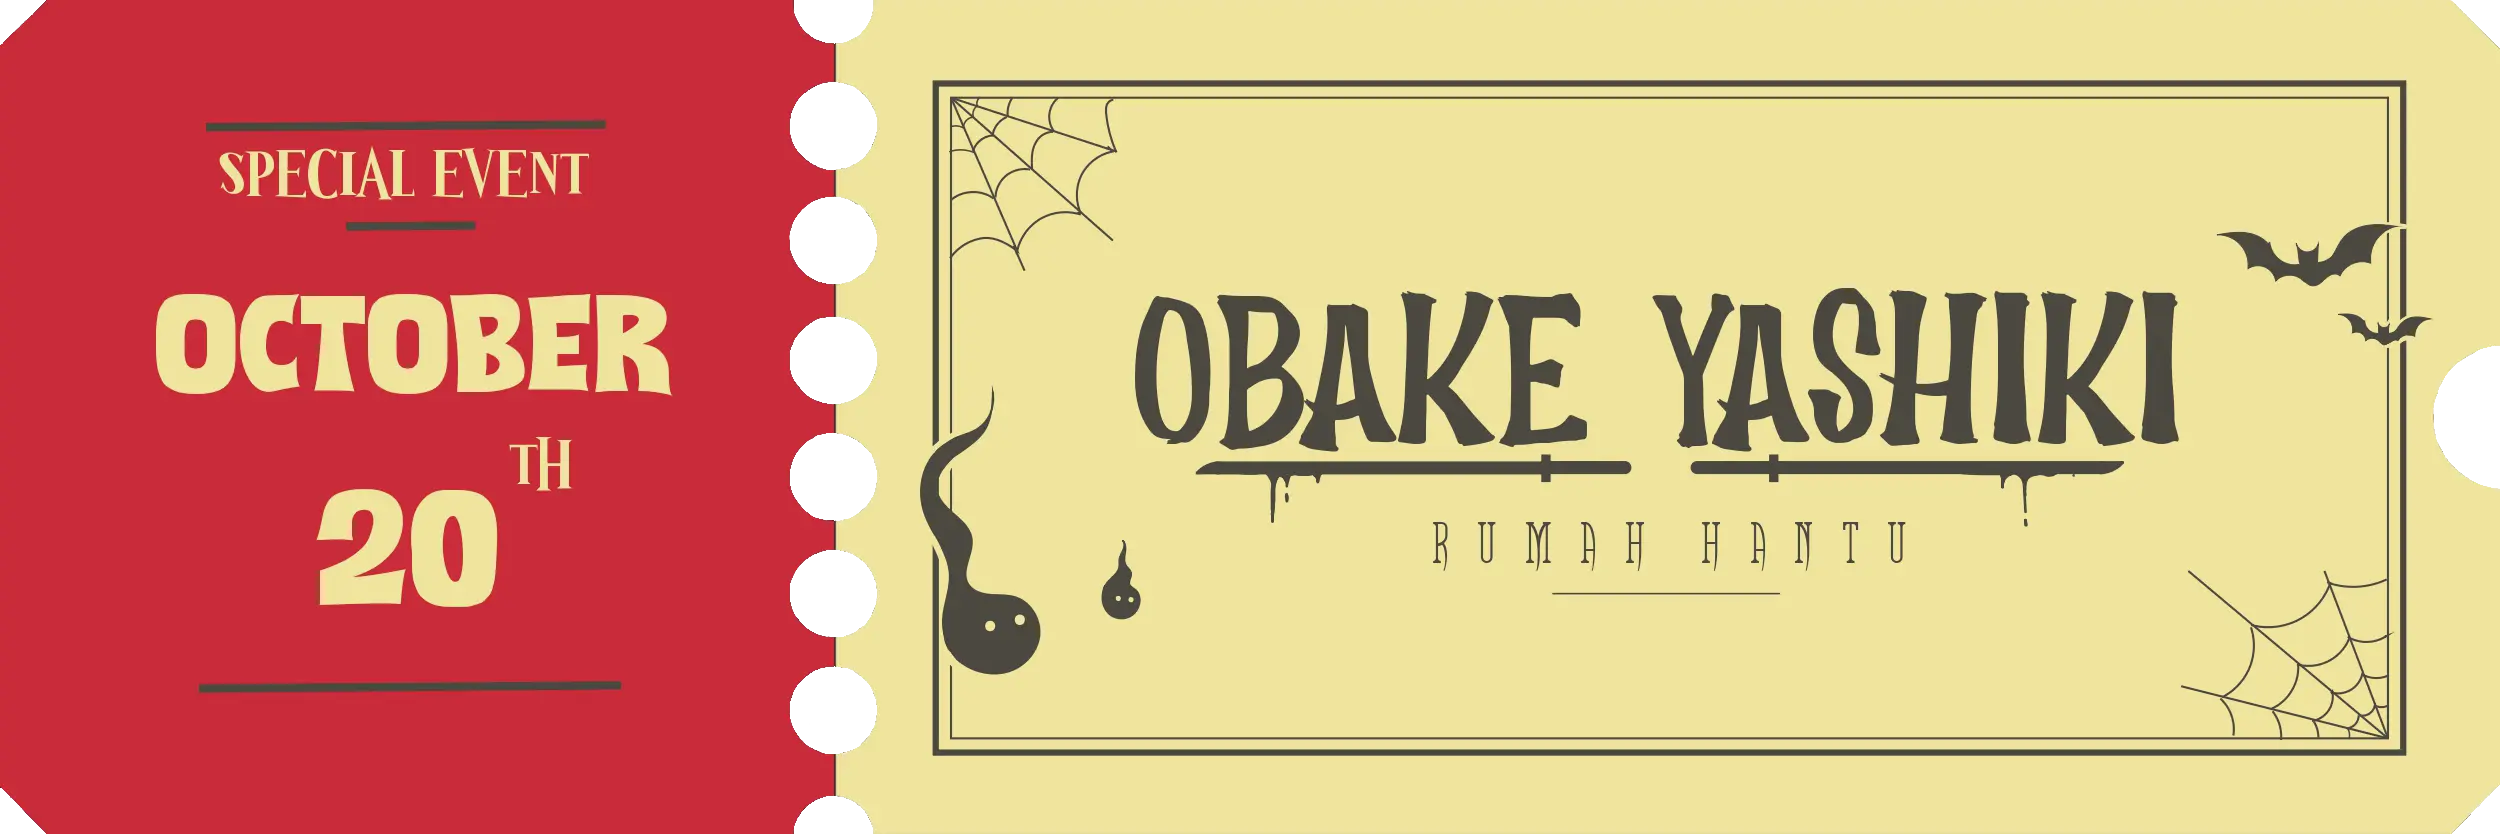
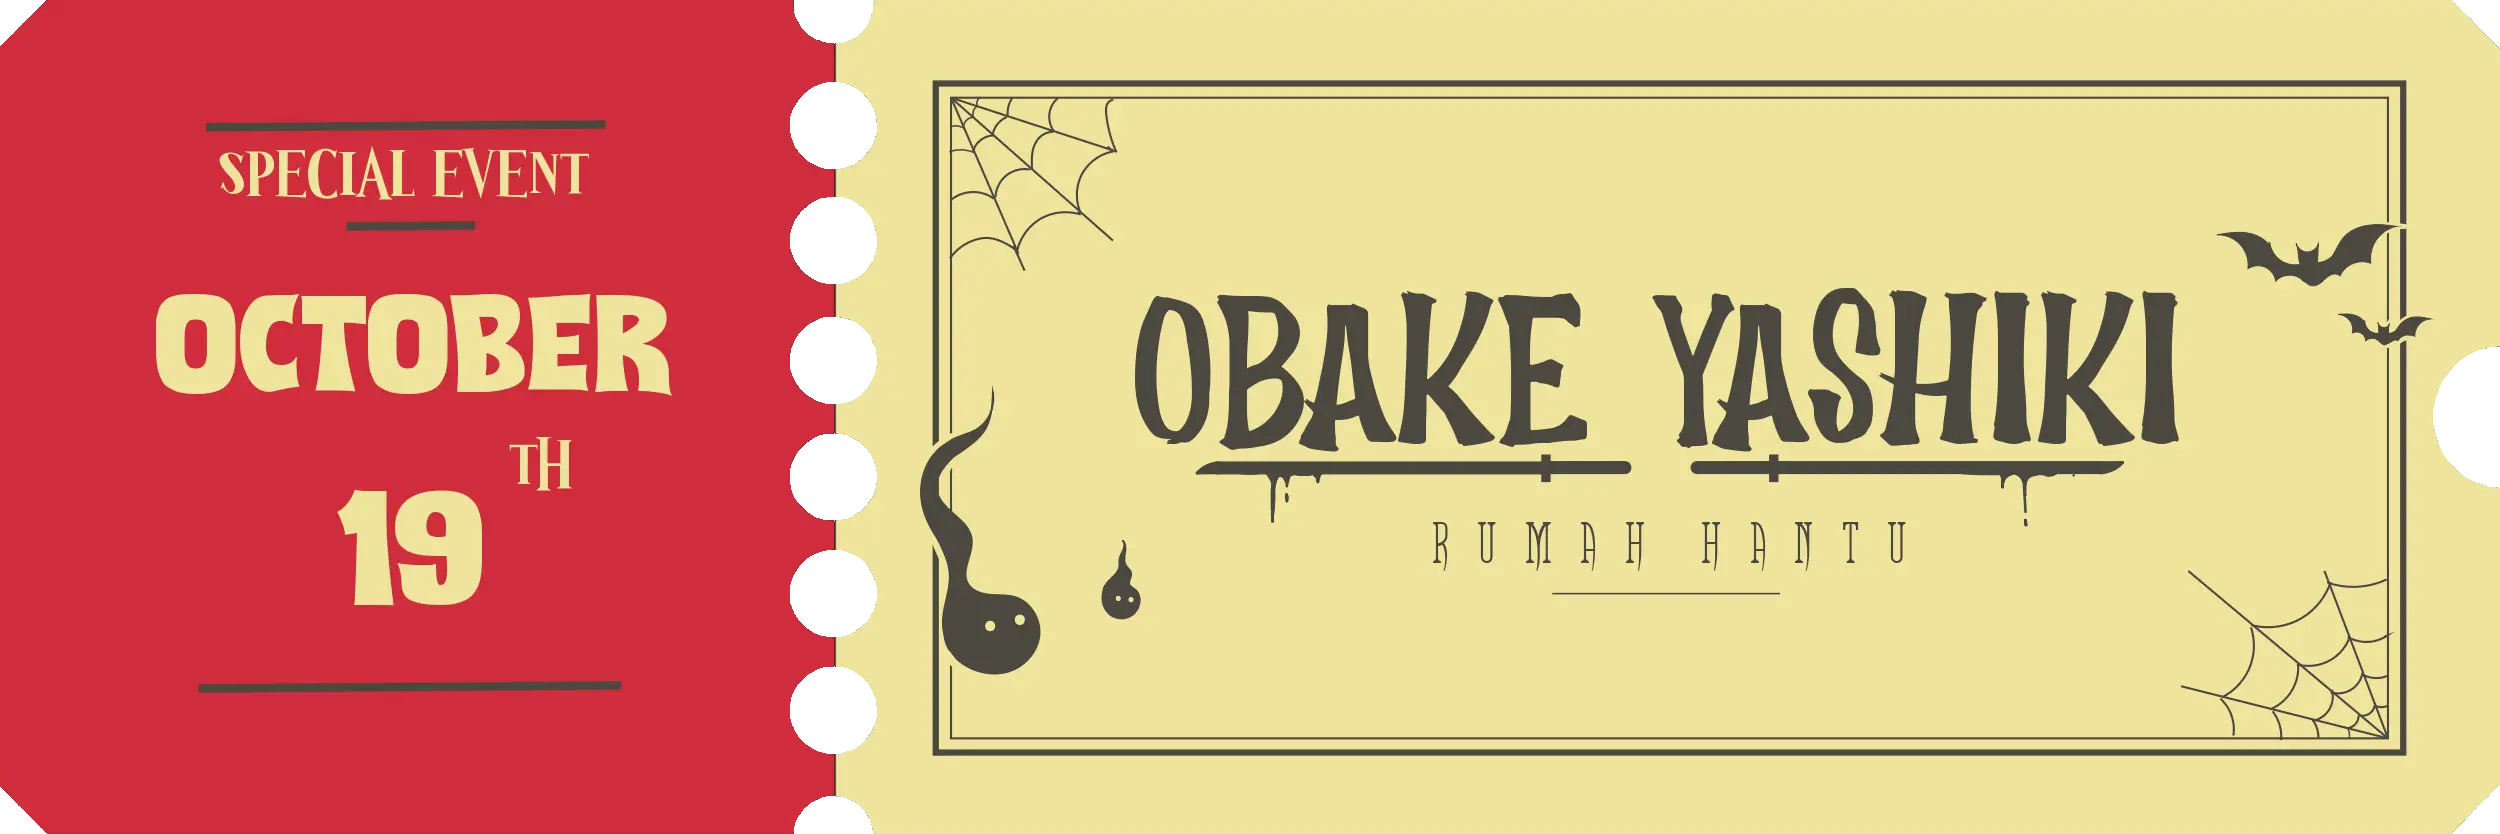
Seed + Validation Update✨

Changed region(s): [[0.1248, 0.5923, 0.2184, 0.7482]]

diff --git a/resources/js/pages/home/partials/Activities.jsx b/resources/js/pages/home/partials/Activities.jsx
@@ -270,8 +270,11 @@ export default function Activities({ activities, competitions }) {
                                             "@tablet": { fontSize: "2vw" }
                                         }).toString()}>
                                             {activity.name}
+                                            {isActivity && (
+                                                " (" + activity.sale.name+")"
+                                            )}
                                         </Text>
-                                        <ActivityTag tag={activity.type}>
+                                        <ActivityTag tag={activity.type} css={{ alignItems: "center" }}>
                                             {isActivity ? (
                                                 <TagBlue width={12.5} />
                                             ) : (
@@ -315,6 +318,12 @@ export default function Activities({ activities, competitions }) {
                                     <DisabledBtn>
                                         <Text css={{ color: "$secondary" }}>
                                             Registration Closed
+                                        </Text>
+                                    </DisabledBtn>
+                                ) : (isActivity && activity.is_coming_up) || (!isActivity && activity.is_opened) ? (
+                                    <DisabledBtn css={{ borderColor: "$dark" }}>
+                                        <Text css={{ color: "$dark" }}>
+                                            Belum dibuka
                                         </Text>
                                     </DisabledBtn>
                                 ) : (!isActivity && activity.price_tag == "ots") ? (

diff --git a/resources/js/pages/detail/partials/PriceSection.jsx b/resources/js/pages/detail/partials/PriceSection.jsx
@@ -13,6 +13,7 @@ export default function PriceSection({
     isFull,
     isTicketsAvailable,
     isGoingOn,
+    isComingUp,
     guideBook,
     orderUrl,
 }) {
@@ -31,7 +32,7 @@ export default function PriceSection({
                 Rp {price.toLocaleString("id-ID")} {priceTag && `(${priceTag})`}
             </Text>
             <div className={css({ display: "flex", gap: "1.25rem", flexDirection: "column", "@desktop": { flexDirection: "row" } }).toString()}>
-                {(isActivity && !isTicketsAvailable) || (isActivity && !isGoingOn) ? (
+                {(isActivity && !isTicketsAvailable) || (isActivity && !isGoingOn) || (isComingUp) ? (
                     <div
                         className={css({
                             display: "flex",
@@ -51,7 +52,7 @@ export default function PriceSection({
                             },
                         }).toString()}
                     >
-                        <Text css={{ color: "$secondary", overflow: "hidden" }}>{isGoingOn ? "Sold Out" : "Event Ended"}</Text>
+                        <Text css={{ color: "$secondary", overflow: "hidden" }}>{(isComingUp) ? "Belum dibuka" :((isGoingOn) ? "Sold Out" : "Event Ended")}</Text>
                     </div>
                 ) : (!isActivity && isClosed) || (!isActivity && isFull) ? (
                     <div

diff --git a/resources/js/pages/detail/index.jsx b/resources/js/pages/detail/index.jsx
@@ -74,6 +74,9 @@ function DetailPage({ data, links: { orderUrl }, meta }) {
                             isGoingOn={
                                 isActivity && data.is_going_on
                             }
+                            isComingUp={
+                                isActivity ? data.is_coming_up : data.is_opened
+                            }
                             guideBook={isActivity ? null : data.guide_book_url}
                             orderUrl={orderUrl}
                         />

diff --git a/database/seeders/Jfest8Seeder.php b/database/seeders/Jfest8Seeder.php
@@ -52,8 +52,8 @@ class Jfest8Seeder extends Seeder
                 'description' => 'Jfest is a japanese culture special event held by JCOS (Japanese Community of STIKOM Bali)',
                 'image_url' => null,
                 'date' => Carbon::create(2024, 10, 8),
-                'purchase_opened_at' => Carbon::create(2024, 9, 4),
-                'purchase_closed_at' => Carbon::create(2024, 10, 8)
+                'purchase_opened_at' => Carbon::create(2024, 8, 4),
+                'purchase_closed_at' => Carbon::create(2024, 10, 19)
             ])
         ])->each(function ($activity) {
             $activity->save();
@@ -76,8 +76,8 @@ class Jfest8Seeder extends Seeder
                 'use_multi_participant' => true,
                 'min_participants' => 1,
                 'max_participants' => 3,
-                'registration_opened_at' => Carbon::create(2024, 9, 4),
-                'registration_closed_at' => Carbon::create(2024, 10, 18),
+                'registration_opened_at' => Carbon::create(2024, 8, 4),
+                'registration_closed_at' => Carbon::create(2024, 8, 18),
             ]),
             new Competition([
                 'name' => 'Japanese Song Cover',
@@ -95,8 +95,8 @@ class Jfest8Seeder extends Seeder
                 'use_multi_participant' => false,
                 'min_participants' => 1,
                 'max_participants' => 1,
-                'registration_opened_at' => Carbon::create(2024, 9, 4),
-                'registration_closed_at' => Carbon::create(2024, 10, 18),
+                'registration_opened_at' => Carbon::create(2024, 8, 4),
+                'registration_closed_at' => Carbon::create(2024, 8, 18),
             ]),
             new Competition([
                 'name' => 'Japan Mading',
@@ -114,8 +114,8 @@ class Jfest8Seeder extends Seeder
                 'use_multi_participant' => true,
                 'min_participants' => 1,
                 'max_participants' => 3,
-                'registration_opened_at' => Carbon::create(2024, 9, 4),
-                'registration_closed_at' => Carbon::create(2024, 10, 18),
+                'registration_opened_at' => Carbon::create(2024, 8, 4),
+                'registration_closed_at' => Carbon::create(2024, 8, 18),
             ]),
             new Competition([
                 'name' => 'Seiyuu Speech Contest',
@@ -132,8 +132,8 @@ class Jfest8Seeder extends Seeder
                 'use_multi_participant' => false,
                 'min_participants' => 1,
                 'max_participants' => 1,
-                'registration_opened_at' => Carbon::create(2024, 9, 4),
-                'registration_closed_at' => Carbon::create(2024, 10, 18),
+                'registration_opened_at' => Carbon::create(2024, 8, 4),
+                'registration_closed_at' => Carbon::create(2024, 8, 18),
             ]),
             new Competition([
                 'name' => 'Kana Taikai',
@@ -152,8 +152,8 @@ class Jfest8Seeder extends Seeder
                 'use_multi_participant' => false,
                 'min_participants' => 1,
                 'max_participants' => 1,
-                'registration_opened_at' => Carbon::create(2024, 9, 4),
-                'registration_closed_at' => Carbon::create(2024, 10, 18),
+                'registration_opened_at' => Carbon::create(2024, 8, 4),
+                'registration_closed_at' => Carbon::create(2024, 8, 18),
             ]),
             new Competition([
                 'name' => 'Original Character',
@@ -170,8 +170,8 @@ class Jfest8Seeder extends Seeder
                 'use_multi_participant' => false,
                 'min_participants' => 1,
                 'max_participants' => 1,
-                'registration_opened_at' => Carbon::create(2024, 9, 4),
-                'registration_closed_at' => Carbon::create(2024, 10, 18),
+                'registration_opened_at' => Carbon::create(2024, 8, 4),
+                'registration_closed_at' => Carbon::create(2024, 8, 18),
             ]),
             new Competition([
                 'name' => 'Jfestography',
@@ -189,8 +189,8 @@ class Jfest8Seeder extends Seeder
                 'min_participants' => 1,
                 'max_participants' => 1,
                 'registration_quota' => 10,
-                'registration_opened_at' => Carbon::create(2024, 9, 4),
-                'registration_closed_at' => Carbon::create(2024, 10, 18),
+                'registration_opened_at' => Carbon::create(2024, 8, 4),
+                'registration_closed_at' => Carbon::create(2024, 8, 18),
             ]),
             new Competition([
                 'name' => 'Cosplay Walk',
@@ -208,8 +208,8 @@ class Jfest8Seeder extends Seeder
                 'use_multi_participant' => false,
                 'min_participants' => 1,
                 'max_participants' => 1,
-                'registration_opened_at' => Carbon::create(2024, 9, 4),
-                'registration_closed_at' => Carbon::create(2024, 10, 18),
+                'registration_opened_at' => Carbon::create(2024, 8, 4),
+                'registration_closed_at' => Carbon::create(2024, 8, 18),
             ]),
             new Competition([
                 'name' => 'Pidato Bahasa Jepang',
@@ -228,8 +228,8 @@ class Jfest8Seeder extends Seeder
                 'use_multi_participant' => false,
                 'min_participants' => 1,
                 'max_participants' => 1,
-                'registration_opened_at' => Carbon::create(2024, 9, 4),
-                'registration_closed_at' => Carbon::create(2024, 10, 18),
+                'registration_opened_at' => Carbon::create(2024, 8, 4),
+                'registration_closed_at' => Carbon::create(2024, 8, 18),
             ]),
         ])->each(function ($competition) {
             $competition->save();

diff --git a/app/Models/Competition.php b/app/Models/Competition.php
@@ -57,6 +57,7 @@ class Competition extends Model
         static::retrieved(function (Model $model) {
             $model->setAttribute('type', EventTypeEnum::Competition->value);
             $model->setAttribute('is_closed', now()->greaterThanOrEqualTo($model->getAttribute('registration_closed_at')));
+            $model->setAttribute('is_opened', now()->lessThan($model->getAttribute('registration_opened_at')));
 
             $quota = $model->getAttribute('registration_quota');
             $countRegistered = $model->registrations()->count();

diff --git a/app/Models/Activity.php b/app/Models/Activity.php
@@ -37,6 +37,7 @@ class Activity extends Model
         static::retrieved(function (Model $model) {
             $model->setAttribute('type', EventTypeEnum::Activity->value);
             $model->setAttribute('is_going_on', now()->lessThanOrEqualTo($model->getAttribute('purchase_closed_at')));
+            $model->setAttribute('is_coming_up', now()->lessThan($model->getAttribute('purchase_opened_at')));
         });
     }
 
